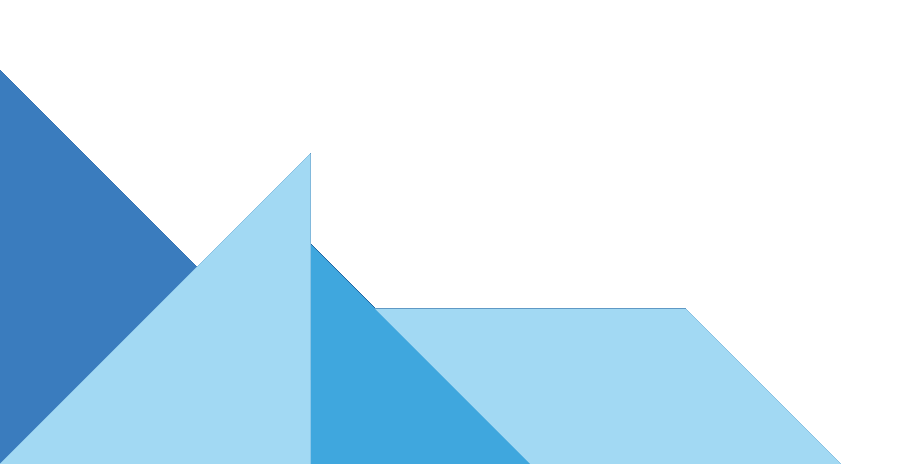
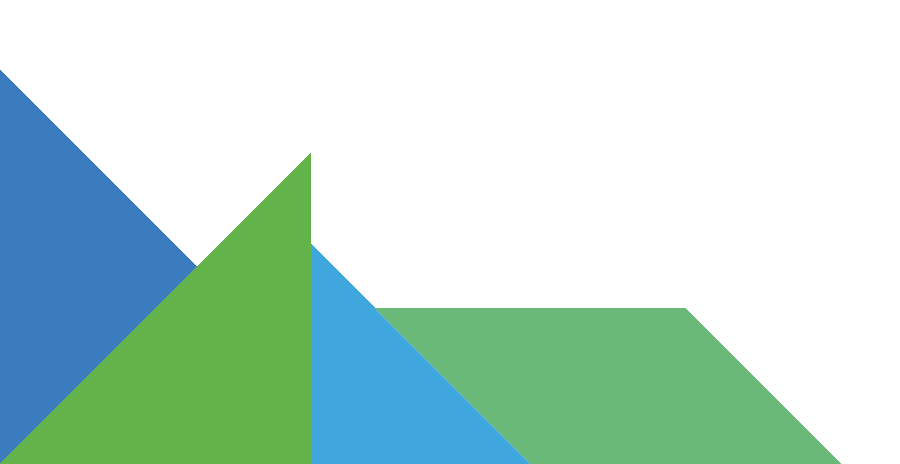
Fix branding colors

Changed region(s): [[0.0, 0.3319, 0.3733, 1.0], [0.4044, 0.6638, 0.9333, 1.0]]

diff --git a/_includes/css/agency.css b/_includes/css/agency.css
@@ -19,7 +19,7 @@ body {
 
 section#about {
   background-attachment: scroll;
-  background: url({{ "/assets/img/bg_bottom_left.svg" | prepend : site.baseurl }}) no-repeat 0 100%,url({{ "/assets/img/bg_bottom_right.svg" | prepend : site.baseurl }}) no-repeat 100% 100%, #A2D9F3;
+  background: url({{ "/assets/img/bg_bottom_left.svg" | prepend : site.baseurl }}) no-repeat 0 100%,url({{ "/assets/img/bg_bottom_right.svg" | prepend : site.baseurl }}) no-repeat 100% 100%, #fff;
 }
 
 section#register {
@@ -28,7 +28,7 @@ section#register {
 
 @media(max-width:768px){
   section#about {
-    background: url({{"/assets/img/bg_bottom_left.svg" | prepend : site.baseurl }}) no-repeat 0 100% #A2D9F3;
+    background: url({{"/assets/img/bg_bottom_left.svg" | prepend : site.baseurl }}) no-repeat 0 100% #fff;
     padding-bottom: 160px;
   }
   section#register {
@@ -403,207 +403,6 @@ section h3.section-subheading {
 .service-heading {
   margin: 15px 0;
   text-transform: none;
-}
-
-
-.timeline {
-  position: relative;
-  padding: 0;
-  list-style: none;
-}
-
-.timeline:before {
-  content: "";
-  position: absolute;
-  top: 0;
-  bottom: 0;
-  left: 40px;
-  width: 2px;
-  margin-left: -1.5px;
-  background-color: #f1f1f1;
-}
-
-.timeline>li {
-  position: relative;
-  margin-bottom: 50px;
-  min-height: 50px;
-}
-
-.timeline>li:before,
-.timeline>li:after {
-  content: " ";
-  display: table;
-}
-
-.timeline>li:after {
-  clear: both;
-}
-
-.timeline>li .timeline-panel {
-  float: right;
-  position: relative;
-  width: 100%;
-  padding: 0 20px 0 100px;
-  text-align: left;
-}
-
-.timeline>li .timeline-panel:before {
-  right: auto;
-  left: -15px;
-  border-right-width: 15px;
-  border-left-width: 0;
-}
-
-.timeline>li .timeline-panel:after {
-  right: auto;
-  left: -14px;
-  border-right-width: 14px;
-  border-left-width: 0;
-}
-
-.timeline>li .timeline-image {
-  z-index: 100;
-  position: absolute;
-  left: 0;
-  width: 80px;
-  height: 80px;
-  margin-left: 0;
-  border: 7px solid #f1f1f1;
-  border-radius: 100%;
-  text-align: center;
-  color: #fff;
-  background-color: #{{ site.data.template.color.primary }};
-}
-
-.timeline>li .timeline-image h4 {
-  margin-top: 12px;
-  font-size: 10px;
-  line-height: 14px;
-}
-
-.timeline>li.timeline-inverted>.timeline-panel {
-  float: right;
-  padding: 0 20px 0 100px;
-  text-align: left;
-}
-
-.timeline>li.timeline-inverted>.timeline-panel:before {
-  right: auto;
-  left: -15px;
-  border-right-width: 15px;
-  border-left-width: 0;
-}
-
-.timeline>li.timeline-inverted>.timeline-panel:after {
-  right: auto;
-  left: -14px;
-  border-right-width: 14px;
-  border-left-width: 0;
-}
-
-.timeline>li:last-child {
-  margin-bottom: 0;
-}
-
-.timeline .timeline-heading h4 {
-  margin-top: 0;
-  color: inherit;
-}
-
-.timeline .timeline-heading h4.subheading {
-  text-transform: none;
-}
-
-.timeline .timeline-body>p,
-.timeline .timeline-body>ul {
-  margin-bottom: 0;
-}
-
-@media(min-width:768px) {
-  .timeline:before {
-    left: 50%;
-  }
-
-  .timeline>li {
-    margin-bottom: 100px;
-    min-height: 100px;
-  }
-
-  .timeline>li .timeline-panel {
-    float: left;
-    width: 41%;
-    padding: 0 20px 20px 30px;
-    text-align: right;
-  }
-
-  .timeline>li .timeline-image {
-    left: 50%;
-    width: 100px;
-    height: 100px;
-    margin-left: -50px;
-  }
-
-  .timeline>li .timeline-image h4 {
-    margin-top: 16px;
-    font-size: 13px;
-    line-height: 18px;
-  }
-
-  .timeline>li.timeline-inverted>.timeline-panel {
-    float: right;
-    padding: 0 30px 20px 20px;
-    text-align: left;
-  }
-}
-
-@media(min-width:992px) {
-  .timeline>li {
-    min-height: 150px;
-  }
-
-  .timeline>li .timeline-panel {
-    padding: 0 20px 20px;
-  }
-
-  .timeline>li .timeline-image {
-    width: 150px;
-    height: 150px;
-    margin-left: -75px;
-  }
-
-  .timeline>li .timeline-image h4 {
-    margin-top: 30px;
-    font-size: 18px;
-    line-height: 26px;
-  }
-
-  .timeline>li.timeline-inverted>.timeline-panel {
-    padding: 0 20px 20px;
-  }
-}
-
-@media(min-width:1200px) {
-  .timeline>li {
-    min-height: 170px;
-  }
-
-  .timeline>li .timeline-panel {
-    padding: 0 20px 20px 100px;
-  }
-
-  .timeline>li .timeline-image {
-    width: 170px;
-    height: 170px;
-    margin-left: -85px;
-  }
-
-  .timeline>li .timeline-image h4 {
-    margin-top: 40px;
-  }
-
-  .timeline>li.timeline-inverted>.timeline-panel {
-    padding: 0 100px 20px 20px;
-  }
 }
 
 aside.clients img {
